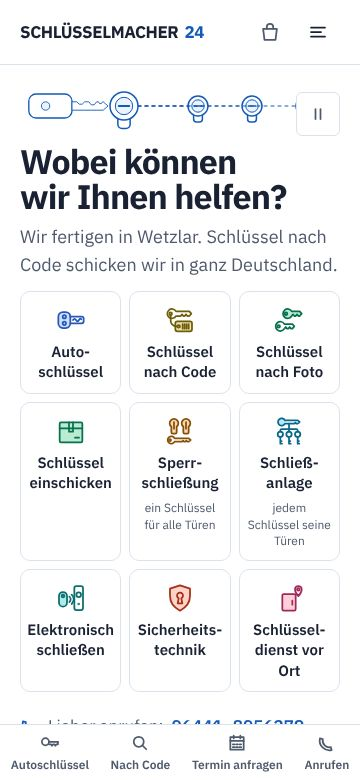
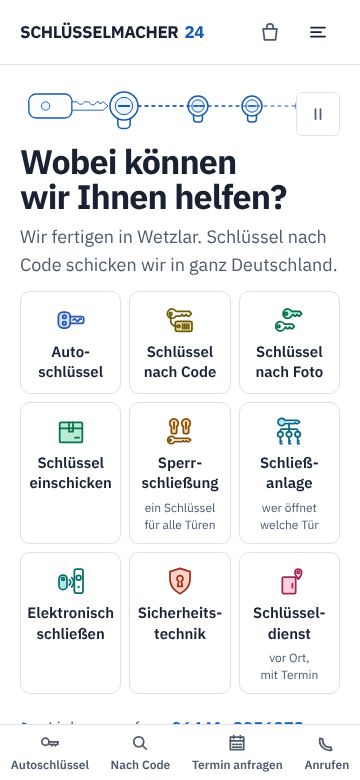
WERKSTATT [E4-PRUEFER-01] Referenzbilder der Startseite nach der Nachbesserung der Kacheltexte (0b54c17) neu aufgenommen, gleiche Vorschrift (erster Bildschirm nach dem Einstieg, JPEG 80, Breitbild auf 1.440 px); Bildsatz H01 neu, Überlauf 0, Randwerte unverändert; Zeitangabe der Statuszeile bericht
Claude-Session: https://claude.ai/code/session_01VqD1EhqLS5Xg5RsaLVVhBf

diff --git a/_werkstatt/ausbau/STATUS.md b/_werkstatt/ausbau/STATUS.md
@@ -41,4 +41,4 @@ STATUS · Sitzung m40jjmy9 · Branch claude/affectionate-knuth-n7mjur · Etappe 
 - 2026-11-03 05:40 · E1 abgeschlossen: R-04 (e79d57a) und E1-OPUS-01 (f91bd36: KARTE, KANTEN, WETTBEWERB, QUELLEN, FACHWISSEN nach FK-04, LAGEBILD Suche; Hebel an bauende Pakete gebunden, A-022). E3: E3-UPGRADE-01 committet (978a830, A-021), E3-PRUEFER-01 läuft. Planbuch: vier E1-Pakete von abgenommen auf committet nachgetragen. Tempomat an der Grenze zur Bremse (51,6 % gegen Soll 45,9 %, Ziel 95). Weckrufe 06:20 und 07:05 gespannt, Wachhund 07:22.
 - 2026-11-03 06:03 · E3 abgeschlossen: E3-PRUEFER-01 gelb ohne Rot, Tor bestanden (A-023, b682602); Werkzeuge korrigiert (slopscan OKLCH mit Deckkraft, server.sh Sperre, werte-suche Einzelausnahmen). Kontingent neu kalibriert mit echtem Messwert (A-024): Woche begrenzt auf rund 22 % je Fenster; laufendes Fenster 34,7 %, darum Warten bis 08:10, dann E4.
 - 2026-11-03 10:15 · E4: OPUS-01 bis -05 und TEXTER-01 committet (de6cb4f, 3362998, 5434e0a, f0f4bc5, 385ddf9, cb3c0ea); Probelauf E4-PROBENUTZER-01 läuft, danach Prüfstufe B, Jury und Blindprobe. Offene Punkte aus dem Texter: Berechtigungsnachweis in vier Ablauftexten (an E6-OPUS-01, Wege-Baukasten mit Nachweis), Kosten beim Schlüsselfinder, fünf Gedankenstriche in seo.json außerhalb von E4 (an E8-TEXTER-03). Selbst korrigiert: kein belegter Preisrahmen beim Vor-Ort-Einsatz (R4). Tempomat Bremse, ein Haiku-Platz.
-- 2026-11-03 11:44 · E4: Prüfstufe B abgenommen (E4-PRUEFER-01 gelb ohne Rot, f36d3ad; Referenz-Bildsatz 15 Bilder). Befunde: Kacheltexte bei 360 px dreizeilig, sofort nachgebessert (0b54c17: „Schlüsseldienst“ mit Zusatz „vor Ort, mit Termin“, Schließanlage „wer öffnet welche Tür“, alle Texte höchstens zweizeilig, 9 von 9 Kacheln über der Aktionsleiste); Lighthouse-Budgets mobil verfehlt (LCP 2,5 bis 3,8 s, SEO 92 auf Unterseiten, keine Route schlechter als E0), daraus E5-PRUEFER-02 (Diagnose) und E5-OPUS-04 (Umsetzung) vor der Prüfstufe B von E5; Randmeldung H06 ist ein Messartefakt (beschnittene Rasterlinien). E4-DOKUMENTAR-01 läuft; Jury und Blindprobe ab 13:10. Kontingent 11:22 gemessen: Fenster 20 %, Woche 18 %, Tempomat Bremse.
+- 2026-11-03 11:33 · E4: Prüfstufe B abgenommen (E4-PRUEFER-01 gelb ohne Rot, f36d3ad; Referenz-Bildsatz 15 Bilder). Befunde: Kacheltexte bei 360 px dreizeilig, sofort nachgebessert (0b54c17: „Schlüsseldienst“ mit Zusatz „vor Ort, mit Termin“, Schließanlage „wer öffnet welche Tür“, alle Texte höchstens zweizeilig, 9 von 9 Kacheln über der Aktionsleiste); Lighthouse-Budgets mobil verfehlt (LCP 2,5 bis 3,8 s, SEO 92 auf Unterseiten, keine Route schlechter als E0), daraus E5-PRUEFER-02 (Diagnose) und E5-OPUS-04 (Umsetzung) vor der Prüfstufe B von E5; Randmeldung H06 ist ein Messartefakt (beschnittene Rasterlinien). E4-DOKUMENTAR-01 läuft; Jury und Blindprobe ab 13:10. Kontingent 11:22 gemessen: Fenster 20 %, Woche 18 %, Tempomat Bremse.

diff --git a/_werkstatt/ausbau/PRUEFPUNKT.md b/_werkstatt/ausbau/PRUEFPUNKT.md
@@ -1,5 +1,5 @@
 # PRÜFPUNKT
-Stand: 2026-11-03 11:44 · Sitzung m40jjmy9
+Stand: 2026-11-03 11:38 · Sitzung m40jjmy9
 Nächster exakter Schritt: Rückgabe E4-DOKUMENTAR-01 abnehmen (erhebung/E4-blind-startseite.md committen, daten/ nie); Paketdatei E5-PRUEFER-02 schreiben; ab 13:10 E4-JURY-01 und E4-BLIND-01 mit frischem Opus starten (Paketdateien liegen vor), dazu E5-PRUEFER-02 (Haiku); Tor E4 nach Auftrag 18 (Studio-Wert 8,5 und 8, Probelauf bestanden, Blind- und Dominanzprobe), höchstens zwei Anläufe
 Laufende Pakete: E4-DOKUMENTAR-01 (erhebung/E4-blind-startseite.md, daten/E4-blind-schluessel.md, berichte/E4-DOKUMENTAR-01.md)
 Letzter grüner Commit: 0b54c17 (Kacheltexte; Build JSON 224, Typprüfung, Lint, betroffene Tests grün; Prüfstufe B am Stand 26a9349 grün in Build JSON und pg, Unit 1986, DB 97)
